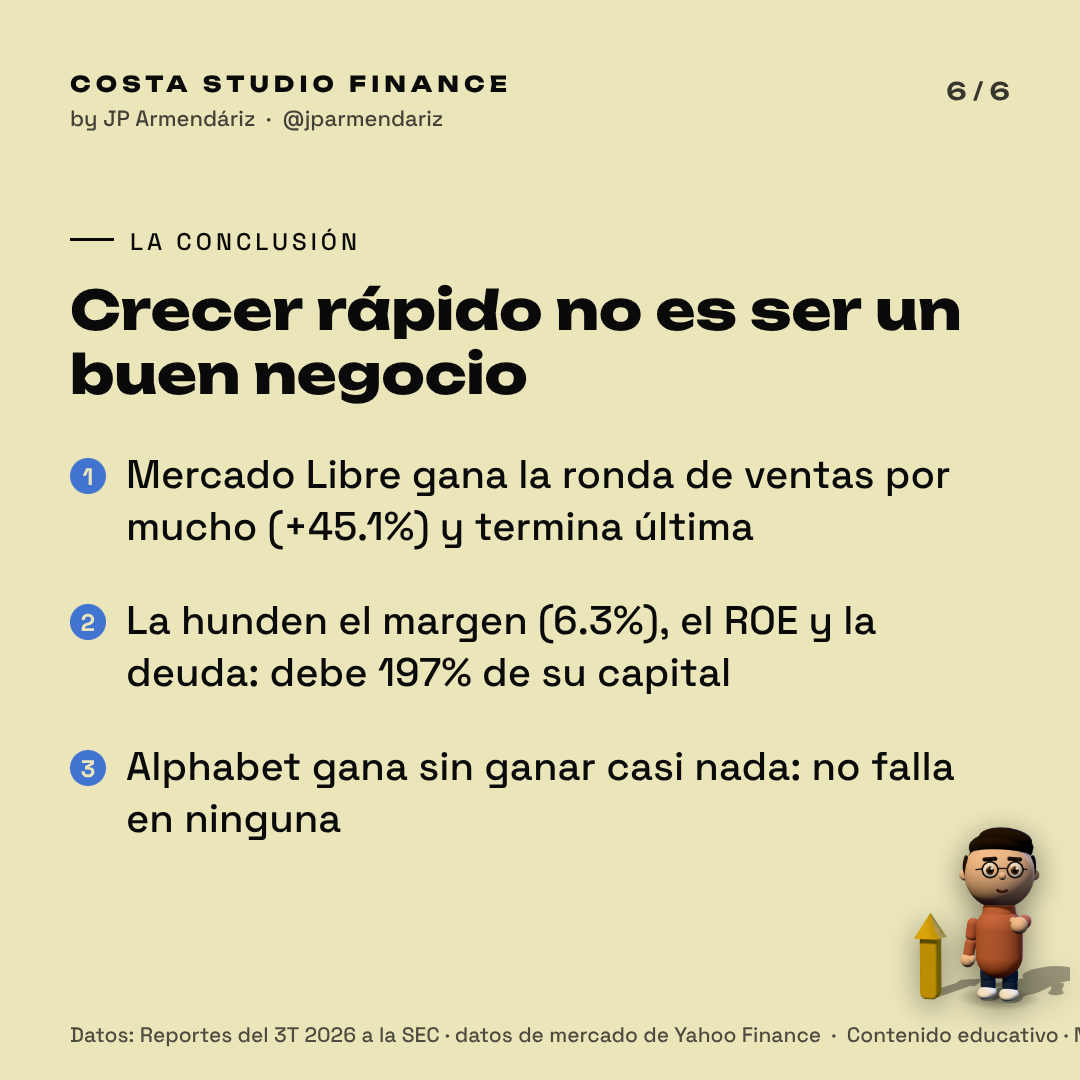
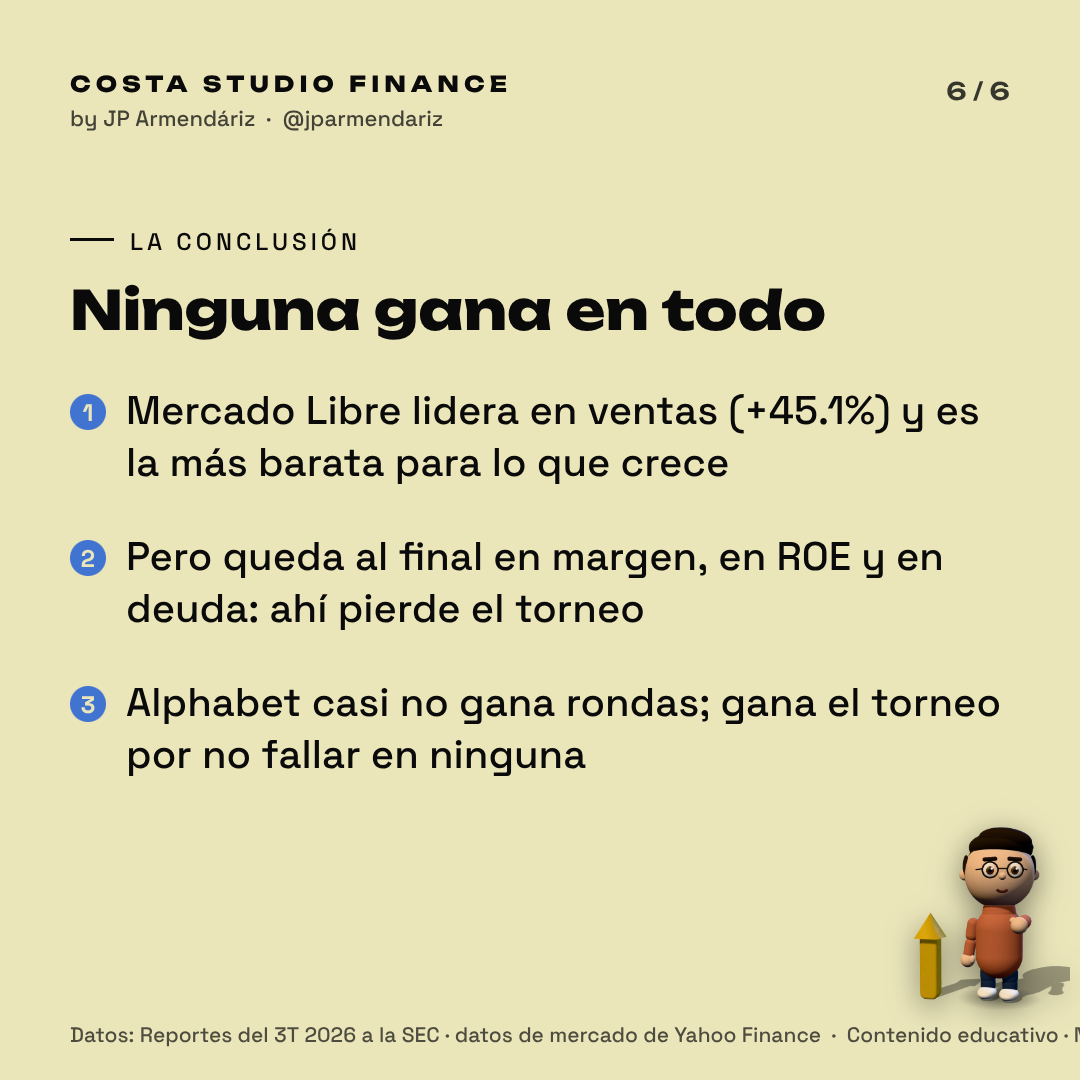
Publicacion: conclusion menos tajante
JP: 'crecer rapido no es ser un buen negocio' sonaba duro y no le hacia
justicia a Mercado Libre, que lidera en ventas y en PEG. La lamina 6 pasa
a 'Ninguna gana en todo', con el contraste real: donde lidera Mercado
Libre, donde pierde, y por que gana Alphabet. Solo cambia la publicacion;
el short se queda como esta.

Claude-Session: https://claude.ai/code/session_01FvjQ3qKsfHX4rzw8jtw3Rk

Changed region(s): [[0.0611, 0.2444, 0.9472, 0.7944]]

diff --git a/finance-videos/videos/2026-11-15-TOP5-ingresos/post/publicacion.md b/finance-videos/videos/2026-11-15-TOP5-ingresos/post/publicacion.md
@@ -18,7 +18,7 @@ Las rondas:
 5. Deuda sobre capital → Spotify, 5.2% (Mercado Libre debe 197.4%)
 6. PEG → Mercado Libre, 0.8
 
-Lo interesante: Mercado Libre arrasa en la primera ronda y termina última. Crecer rápido no es lo mismo que ser un buen negocio. Gana Alphabet por no fallar en ninguna.
+Lo interesante: ninguna gana en todo. Mercado Libre lidera en ventas y en PEG, pero queda al final en margen, ROE y deuda. Alphabet casi no gana rondas y aun así gana el torneo, por no fallar en ninguna. Por eso una sola métrica no alcanza.
 
 ⚠ En lo personal tengo posición en Aeropuertos del Pacífico y en Mercado Libre.
 Esto no es una recomendación de compra: es un ranking según seis métricas que puedes verificar tú mismo.
